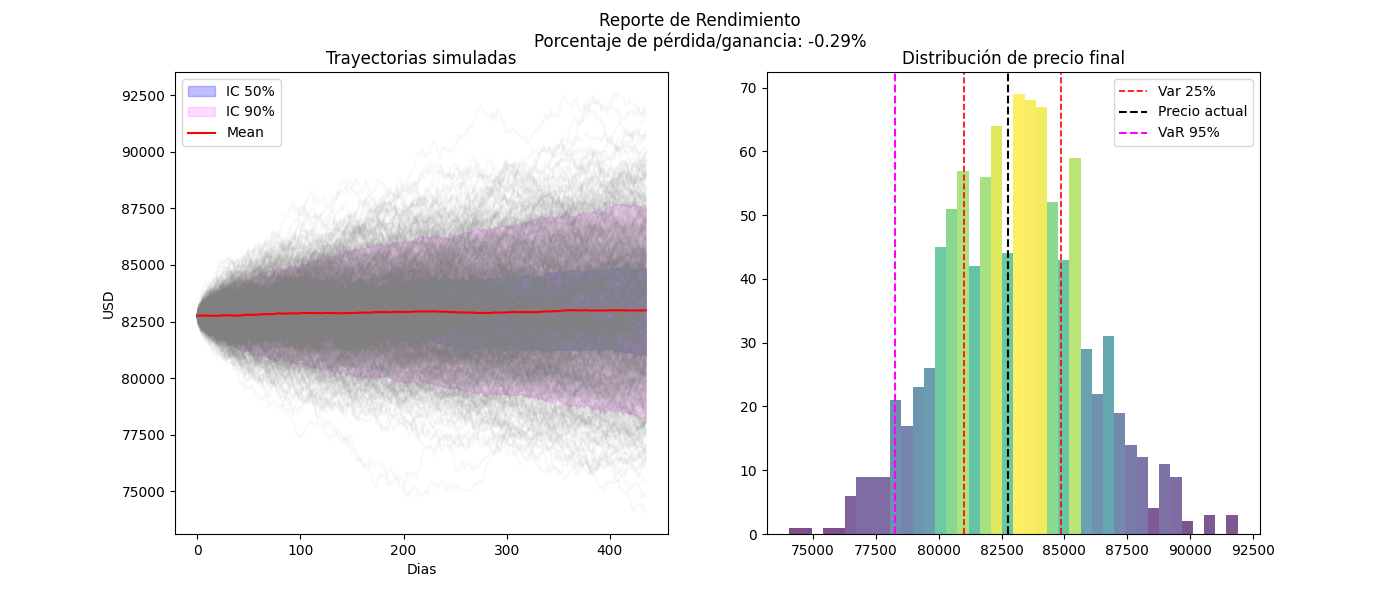
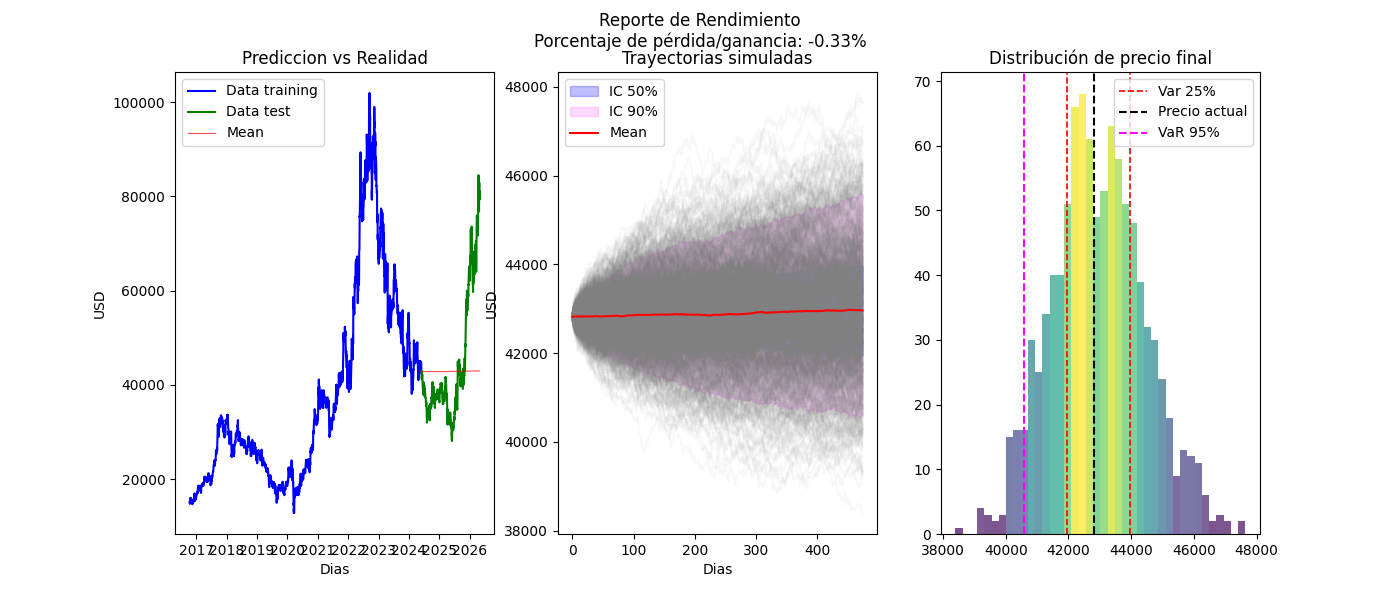
Uso de train y test en la simulacion y grafico de prediccion vs realidad (pesimo)

diff --git a/src/mc_simulator.py b/src/mc_simulator.py
@@ -15,12 +15,11 @@ class MonteCarloSimulator:
 
     def __init__(
         self,
-        precio_inicial: float,
-        mu: float,
-        sigma: float = None,
+        data_training: np.ndarray,
+        data_test: np.ndarray,
         N_casos_posibles: int = 100,
         dias_de_simulacion: int = 31,
-        modelo=None,
+        modelo: str = None,
         dias_de_trending: int = 252,
     ):
         """
@@ -39,14 +38,22 @@ class MonteCarloSimulator:
         Output:
             None
         """
-        self.mu = mu
-        self.modelo = modelo
-        self.sigma = sigma
 
-        self.precio_inicial = precio_inicial
+        self.data_training = data_training
+        self.data_test = data_test
+
+        self.crecimiento =  np.log((self.data_training / self.data_training.shift(1)).dropna()).values
+
+        self.mu = self.crecimiento.mean()
+        self.sigma = self.crecimiento.std()
+
+        self.precio_inicial = data_training.values[-1][0]
+
         self.dias_de_trending = dias_de_trending
         self.N_casos_posibles = N_casos_posibles
         self.dias_de_simulacion = dias_de_simulacion
+
+        self.modelo = modelo
         self.S_t = None
 
     @abstractmethod
@@ -55,7 +62,7 @@ class MonteCarloSimulator:
         Ejecuta la simulación de Monte Carlo (BSM) y devuelve las trayectorias.
         """
 
-    def informe_visual(self):
+    def informe_visual(self,):
         """
         Genera un gráfico con las trayectorias simuladas y la distribución del precio final.
 
@@ -69,17 +76,31 @@ class MonteCarloSimulator:
             logger.error("Error en actualizacion de S_t")
             raise ValueError("Debe ejecutar el método simulate() antes de generar el informe visual.")
         
-        fig, axl = plt.subplots(1, 2, figsize=(14, 6))
-
-        for iter in range(self.N_casos_posibles):
-            axl[0].plot(self.S_t[iter, :], alpha=0.05, color="grey")
-
-        promedios = self.S_t.mean(axis=0)
         p25 = np.percentile(self.S_t, 25, axis=0)
         p50 = np.percentile(self.S_t, 50, axis=0)
         p75 = np.percentile(self.S_t, 75, axis=0)
+        promedios = self.S_t.mean(axis=0)
 
-        axl[0].fill_between(
+        fig, axl = plt.subplots(1, 3, figsize=(14, 6))
+
+        # Grafico 1
+
+        axl[0].plot(self.data_training, color = "blue",label="Data training",alpha=1.0)
+        axl[0].plot(self.data_test, color = "green",label="Data test",alpha=1.0)
+        #promedio de trayectorias
+        axl[0].plot(self.data_test.reset_index().Date, promedios, color="red", label="Mean",alpha=0.7, linewidth=0.8)
+
+        axl[0].set_title('Prediccion vs Realidad')
+        axl[0].set_xlabel("Dias")
+        axl[0].set_ylabel("USD")
+        axl[0].legend()
+
+        # Grafico 2
+        for iter in range(self.N_casos_posibles):
+            axl[1].plot(self.S_t[iter, :], alpha=0.05, color="grey")
+
+
+        axl[1].fill_between(
             range(self.S_t.shape[1]),
             p25,
             p75,
@@ -88,7 +109,7 @@ class MonteCarloSimulator:
             label='IC 50%',
         )
 
-        axl[0].fill_between(
+        axl[1].fill_between(
             range(self.S_t.shape[1]),
             np.percentile(self.S_t, 5, axis=0),
             np.percentile(self.S_t, 95, axis=0),
@@ -97,16 +118,16 @@ class MonteCarloSimulator:
             label='IC 90%',
         )
 
-        axl[0].plot(promedios, color="red", label="Mean")
+        axl[1].plot(promedios, color="red", label="Mean")
 
         perdida = (1 - promedios[-1] / self.precio_inicial) * 100
         signo = np.sign(promedios[-1] - self.precio_inicial)
-        axl[0].set_title('Trayectorias simuladas')
-        axl[0].set_xlabel("Dias")
-        axl[0].set_ylabel("USD")
-        axl[0].legend()
+        axl[1].set_title('Trayectorias simuladas')
+        axl[1].set_xlabel("Dias")
+        axl[1].set_ylabel("USD")
+        axl[1].legend()
 
-        N, bins, patches = axl[1].hist(
+        N, bins, patches = axl[2].hist(
             self.S_t[:, -1], bins=40, edgecolor='none', alpha=0.7
         )
         fracs = N / N.max()
@@ -115,13 +136,13 @@ class MonteCarloSimulator:
             color = plt.cm.viridis(norm(thisfrac))
             thispatch.set_facecolor(color)
 
-        axl[1].axvline(x=p25[-1], color="r", linewidth=1.2, ls="--", label="Var 25%")
-        axl[1].axvline(x=p75[-1], color="r", linewidth=1.2, ls="--")
-        axl[1].axvline(self.precio_inicial, color='black', linestyle='--', label='Precio actual')
-        axl[1].axvline(np.percentile(self.S_t[:, -1], 5), color='magenta', linestyle='--', label='VaR 95%')
+        axl[2].axvline(x=p25[-1], color="r", linewidth=1.2, ls="--", label="Var 25%")
+        axl[2].axvline(x=p75[-1], color="r", linewidth=1.2, ls="--")
+        axl[2].axvline(self.precio_inicial, color='black', linestyle='--', label='Precio actual')
+        axl[2].axvline(np.percentile(self.S_t[:, -1], 5), color='magenta', linestyle='--', label='VaR 95%')
 
-        axl[1].set_title('Distribución de precio final')
-        axl[1].legend()
+        axl[2].set_title('Distribución de precio final')
+        axl[2].legend()
 
         fig.suptitle(
             f"Reporte de Rendimiento\n"

diff --git a/src/Model.py b/src/Model.py
@@ -44,18 +44,16 @@ class BSMmodel(MonteCarloSimulator):
     """
     def __init__(
         self,
-        precio_inicial: float,
-        mu: float,
-        sigma: float,
+        data_training: np.ndarray,
+        data_test: np.ndarray,
         N_casos_posibles: int = 100,
         dias_de_simulacion: int = 31,
         dias_de_trending: int = 252,
         optimize: str = None
     ):
         super().__init__(
-            precio_inicial,
-            mu,
-            sigma,
+            data_training,
+            data_test,
             N_casos_posibles,
             dias_de_simulacion,
             dias_de_trending,
@@ -67,7 +65,8 @@ class BSMmodel(MonteCarloSimulator):
             self.drift = self.mu - 0.5 * self.sigma ** 2
 
             self.S_t = np.ones((N_casos_posibles, dias_de_simulacion))
-            self.S_t[:, 0] = precio_inicial
+            self.S_t[:, 0] = self.precio_inicial
+
 
             if self.optimize == "For":
                 logger.info("Estrategia: ciclo For")
@@ -100,7 +99,6 @@ class BSMmodel(MonteCarloSimulator):
             "BSMmodel.simulate() | N=%d | T=%d | optimize=%s",
             self.N_casos_posibles, self.dias_de_simulacion, self.optimize,
         )
-
 
         if self.optimize == "For":
             for i in range(1, self.dias_de_simulacion):
@@ -141,9 +139,8 @@ class HestonModel(MonteCarloSimulator):
 
     def __init__(
         self,
-        precio_inicial: float,
-        mu: float,
-        sigma: float,
+        data_training: np.ndarray,
+        data_test: np.ndarray,
         N_casos_posibles: int = 100,
         dias_de_simulacion: int = 31,
         dias_de_trending: int = 252,
@@ -154,9 +151,8 @@ class HestonModel(MonteCarloSimulator):
         optimize: str = None,
     ):
         super().__init__(
-            precio_inicial,
-            mu,
-            sigma,
+            data_training,
+            data_test,
             N_casos_posibles,
             dias_de_simulacion,
             dias_de_trending,
@@ -166,7 +162,7 @@ class HestonModel(MonteCarloSimulator):
             self.rho = rho
             self.kappa = kappa
             self.theta = theta
-            self.v0 = sigma ** 2 if v0 is None else v0
+            self.v0 = self.sigma ** 2 if v0 is None else v0
             self.dt = 1 / self.dias_de_trending
 
             if self.optimize == "For":

diff --git a/main.py b/main.py
@@ -51,19 +51,28 @@ def main() -> None:
     logger.info("Configurando simulación Monte Carlo (BSM)...")
     np.random.seed(RANDOM_SEED)
     logger.debug("Semilla aleatoria fijada: %d", RANDOM_SEED)
-
-    n_dias = int(datos.days / 8)
+    
+    #busday excluye los fines de semana
+    n_dias = np.busday_count(datos.test.index[0].date(), datos.test.index[-1].date())
+    try:
+        if n_dias ==datos.test.shape[0]:
+            pass
+        else:
+            n_dias = datos.test.shape[0]
+            logger.warning("El número de días no coincide con el número de días de test. Se utilizará el número de días de test. Es necesario el calendario financiero para obtener el número exacto de días.")
+    except ValueError as e:
+        logger.error("Error al procesar el calendario financiero: %s", e, exc_info=True)
+        raise
 
     parametros = f"ticker={TICKER}, precio_inicial={datos.precio_inicial}, mu={datos.mu}, sigma={datos.sigma}, n_simulaciones={N_SIMULACIONES}, dias={n_dias}"
-    log_parametros_simulacion(logger=logger,parameter=parametros)
+    log_parametros_simulacion(logger=logger, parameter=parametros)
 
     inicio = time.time()
 
     try:
         simulation = BSMmodel(
-            precio_inicial=datos.precio_inicial,
-            mu=datos.mu,
-            sigma=datos.sigma,
+            data_training=datos.train,
+            data_test=datos.test,
             N_casos_posibles=N_SIMULACIONES,
             dias_de_simulacion=n_dias,
             optimize="NumpyVectorization"
@@ -84,7 +93,7 @@ def main() -> None:
     try:
         simulation.reporte()
         simulation.informe_visual()
-
+        
         # Registrar métricas de riesgo en el log
         precios_finales = datos_simulados[:, -1]
         retornos = (precios_finales - datos.precio_inicial) / datos.precio_inicial

diff --git a/src/data_handler.py b/src/data_handler.py
@@ -50,7 +50,7 @@ class manipulate_data:
         self.sigma = self.crecimiento.std()
         self.precio_inicial = activos["Close"].values[-1][0]
 
-        self.days = np.abs((self.activos.index[0] - self.activos.index[-1]).days)
+        self.days = int(np.abs((self.activos.index[0] - self.activos.index[-1]).days))
 
         self.dia_de_corte = None
         self.test = None
@@ -64,7 +64,7 @@ class manipulate_data:
         Output:
             None (imprime por consola)
         """
-        print("Dias pasados:", self.days)
+        print("Dias totales disponibles:", self.days)
         print("Precio actual:", self.precio_inicial)
         print("Volatilidad anual:", self.sigma)
         print("Riesgo anual:", self.mu)